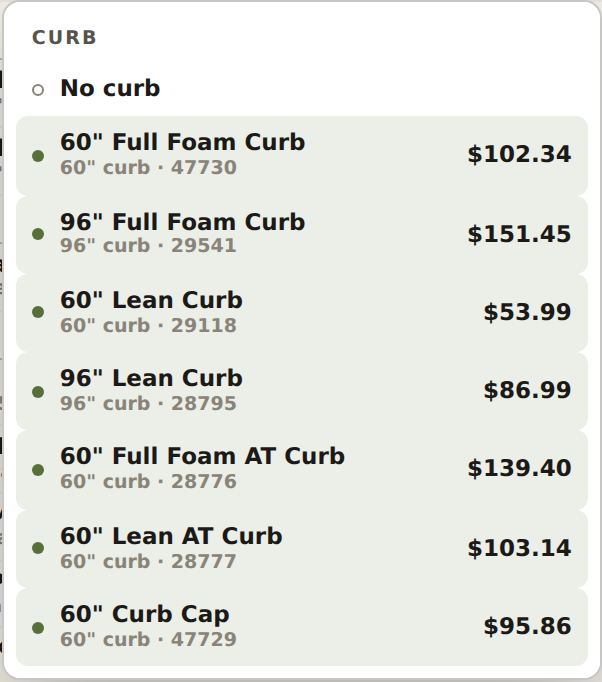
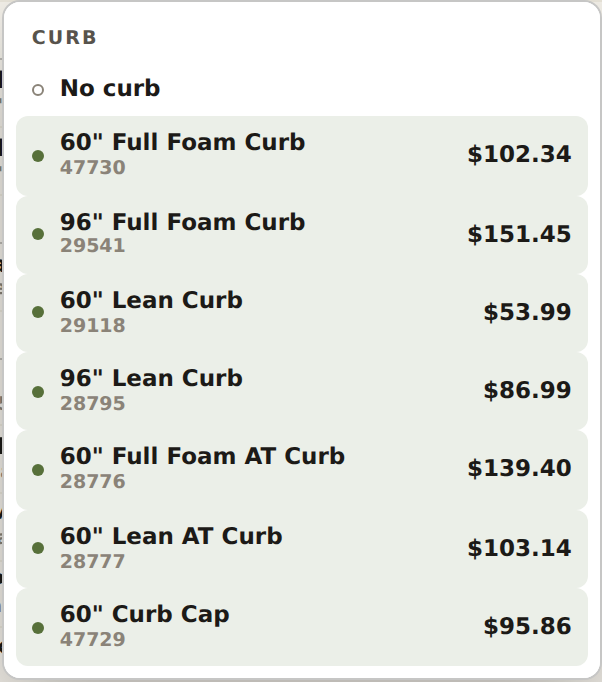
wedi: SKU-only second line for curbs, by-the-foot building panel names
Curbs drop the redundant size line — the length lives in the name, so the
second line is just the SKU (build column, swap/chip popovers, Browse).
Building panels rename to <ft>'x<ft>'x<t>" Building Panel (4'x5'x1/2"),
derived from the parsed dims so a pricelist re-transcription keeps the
treatment automatically; the SKU and the inch dimensions stay on the second
line. An off-foot side (32") stays in inches; Vapor 85 keeps its line name;
panel kits are untouched.

Claude-Session: https://claude.ai/code/session_01StKLMBZ7jaoDD87gnj711t

diff --git a/src/wedi.test.js b/src/wedi.test.js
@@ -183,6 +183,19 @@ test("wedi curbs: plain profile names, full foam → lean → AT order (owner 20
   assert.deepEqual(curbs().map((c) => c.us),
     ["US3000039", "US3000041", "US3000038", "US3000040", "US3000048", "US3000049", "US3000008", "US3000010"],
     "swap order: full foam 60/96, lean 60/96, full AT, lean AT, caps");
+  assert.ok(group("curb").every((c) => c.sizeText === ""),
+    "a curb's second line is just the SKU — the length lives in the name");
+});
+
+test("wedi panels: by-the-foot names, SKU + inches stay on the second line (owner 2026-08-06)", () => {
+  assert.equal(item("US8000014").name, "4'x5'x1/2\" Building Panel");
+  assert.equal(item("US8000017").name, "3'x5'x1/2\" Building Panel");
+  assert.equal(item("US8000015").name, "4'x8'x1/2\" Building Panel");
+  assert.equal(item("US8000006").name, "2'x4'x1/8\" Building Panel");
+  assert.equal(item("US8000032").name, "32\"x4'x1/2\" Building Panel", "an off-foot side stays in inches");
+  assert.equal(item("US8000026").name, "4'x8'x1/2\" Vapor 85 Building Panel");
+  assert.equal(item("US8000014").sizeText, '48" x 60" x 1/2"', "the inches ride the size line");
+  assert.equal(item("US4000001").name, "wedi® Tub & Shower Wall Kit", "panel kits keep their own names");
 });
 
 // --- tiers --------------------------------------------------------------------

diff --git a/src/wedi.js b/src/wedi.js
@@ -4215,11 +4215,21 @@ function makeEntry(stockRow, soRow) {
     e.len = all[0] || null;
     e.w = all[1] != null ? all[1] : null;   // profile height
     e.d = all[2] != null ? all[2] : null;   // profile width
-    e.sizeText = e.len ? String(e.len) + '" curb' : "";
+    // The length lives in the display name, so the size line stays empty and
+    // a curb's second line reads as just the SKU (owner ask 2026-08-06).
+    e.sizeText = "";
     if (CURB_NAMES[e.us]) e.name = CURB_NAMES[e.us];
   } else if (e.group === "panel") {
     if (e.w && e.d) e.sf = round2(e.w * e.d / 144);
     e.sizeText = sizeTextOf(e.w, e.d, e.t);
+    // Panels read by the foot — 4'x5'x1/2" Building Panel — with the SKU and
+    // the inches on the second line (owner ask 2026-08-06). Derived from the
+    // parsed dims, so a pricelist re-transcription keeps the treatment.
+    if (e.sub !== "kit" && e.w && e.d && e.t) {
+      const ft = (n) => (n % 12 === 0 ? n / 12 + "'" : inch(n) + '"');
+      e.name = ft(Math.min(e.w, e.d)) + "x" + ft(Math.max(e.w, e.d)) + "x" + inch(e.t) + '" '
+        + (e.sub === "vapor" ? "Vapor 85 Building Panel" : "Building Panel");
+    }
   } else if (e.group === "cover" || e.group === "coverFrame") {
     const f = finishOf(name, e.desc);
     e.finish = f.finish;
